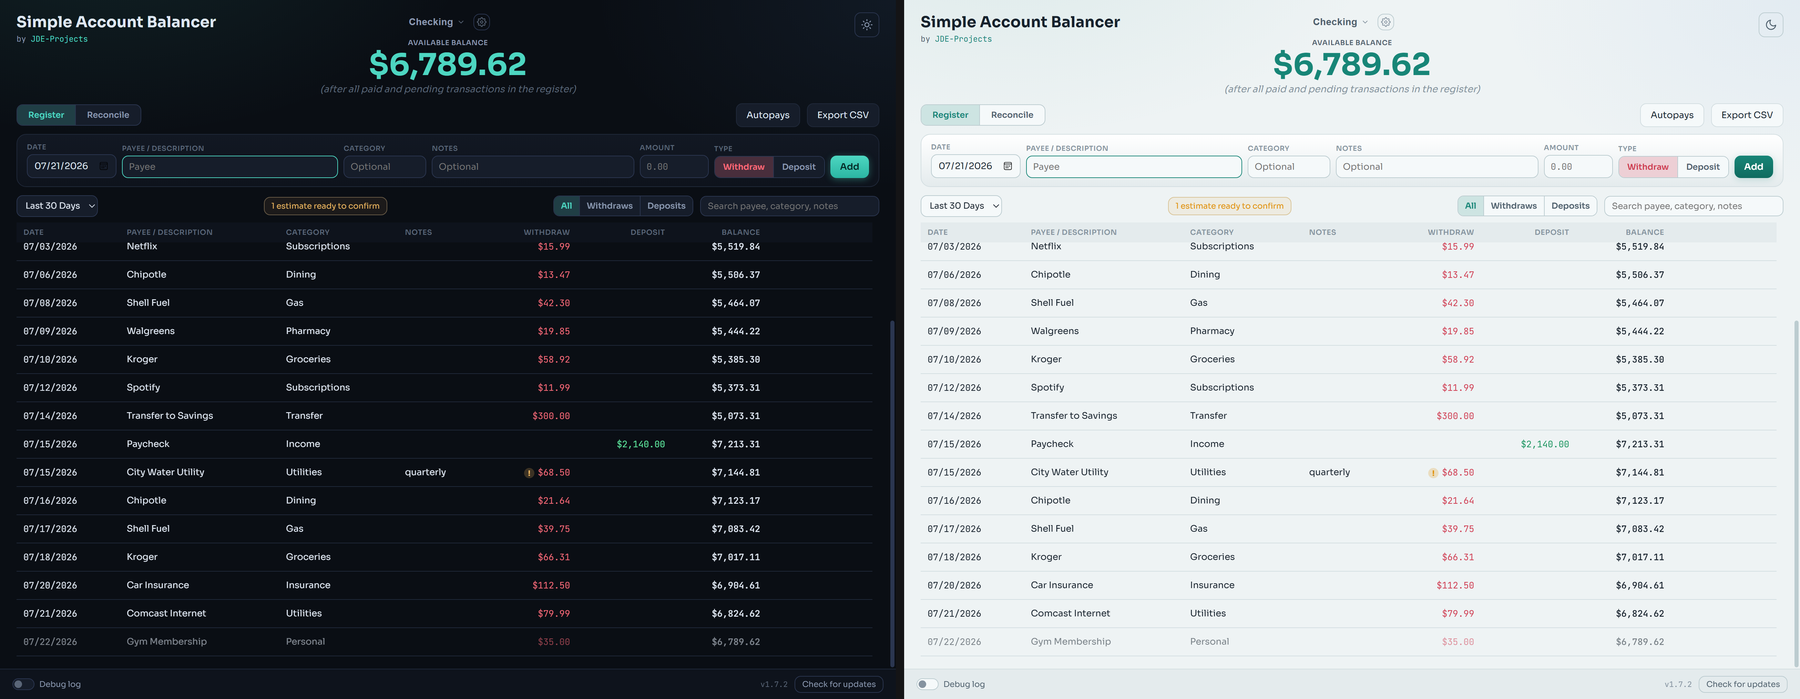
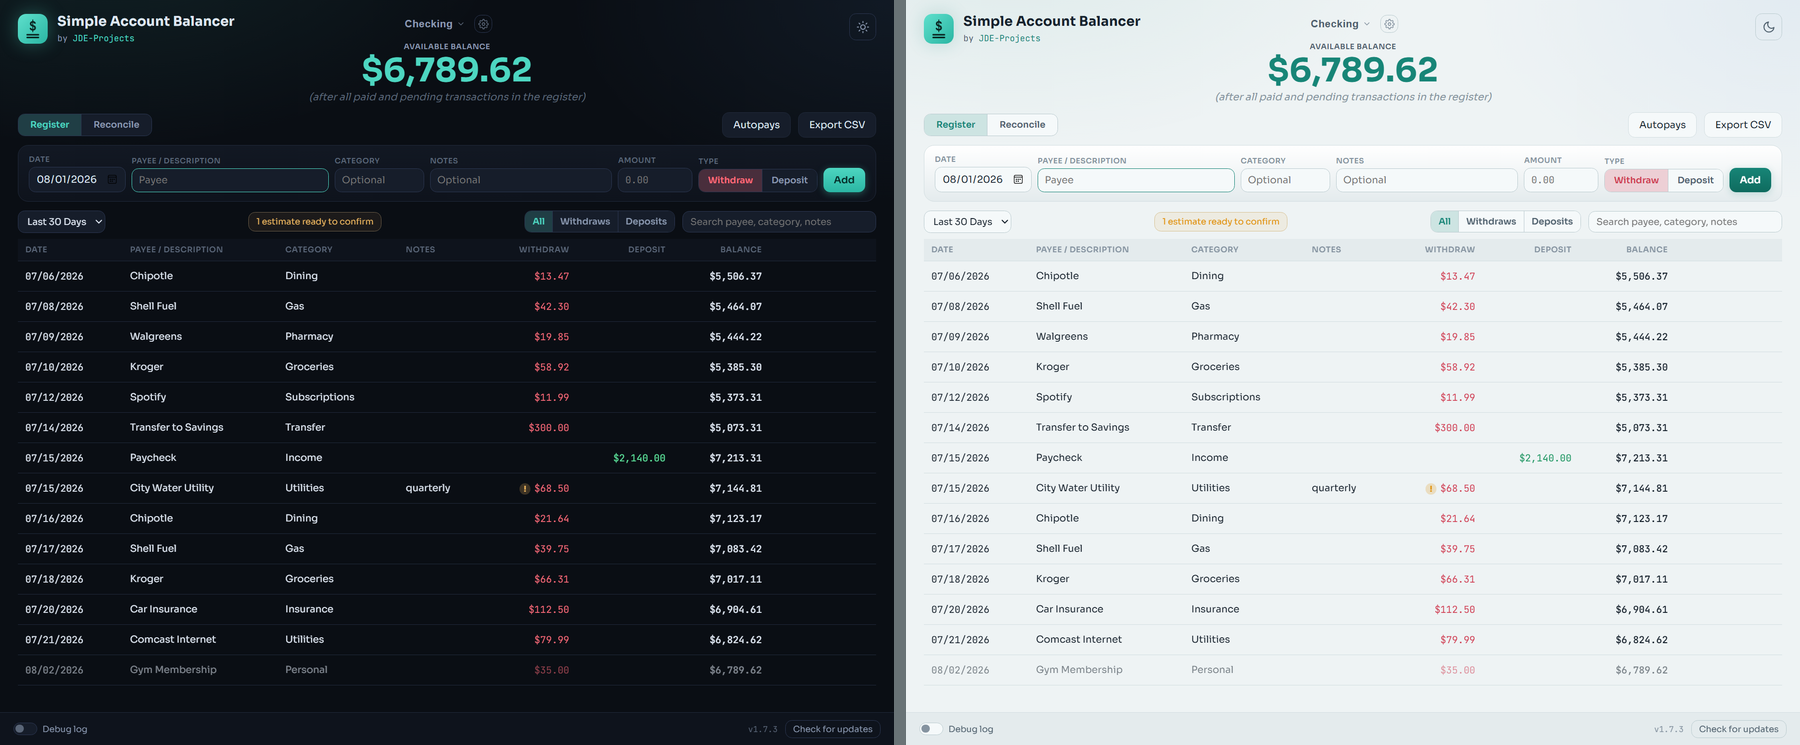
Bump version to v1.7.3

diff --git a/simple_account_balancer.py b/simple_account_balancer.py
@@ -32,7 +32,7 @@ from decimal import Decimal, InvalidOperation, ROUND_HALF_UP
 
 import webview
 
-APP_VERSION = "1.7.2"
+APP_VERSION = "1.7.3"
 GITHUB_OWNER = "JDE-Projects"
 GITHUB_REPO = "Simple-Account-Balancer"
 
